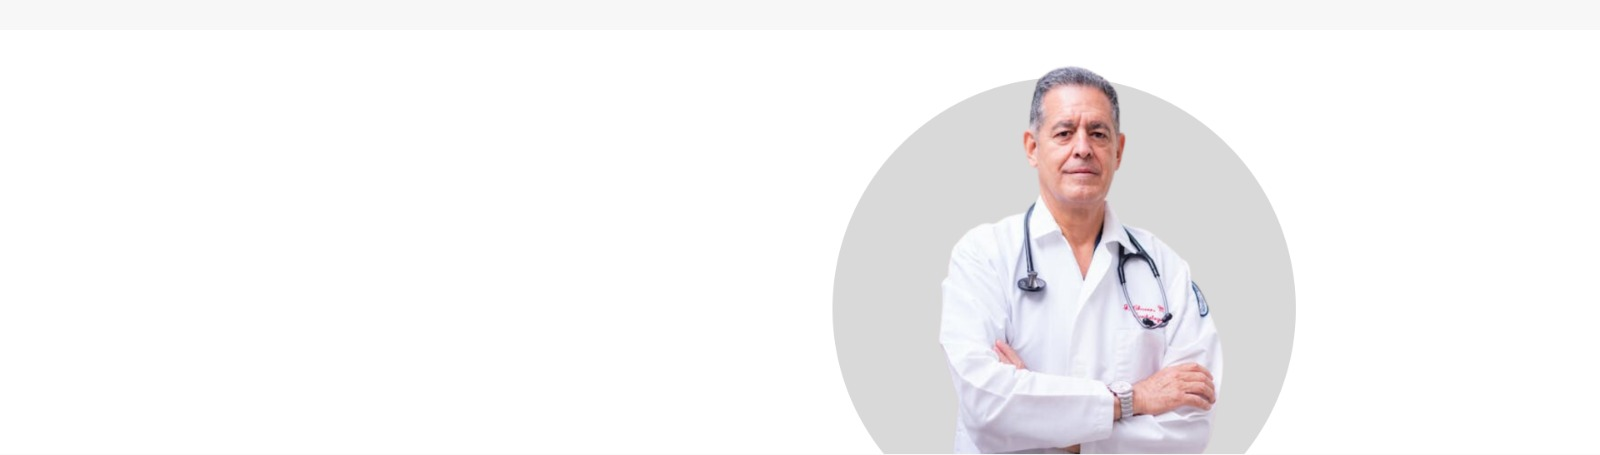
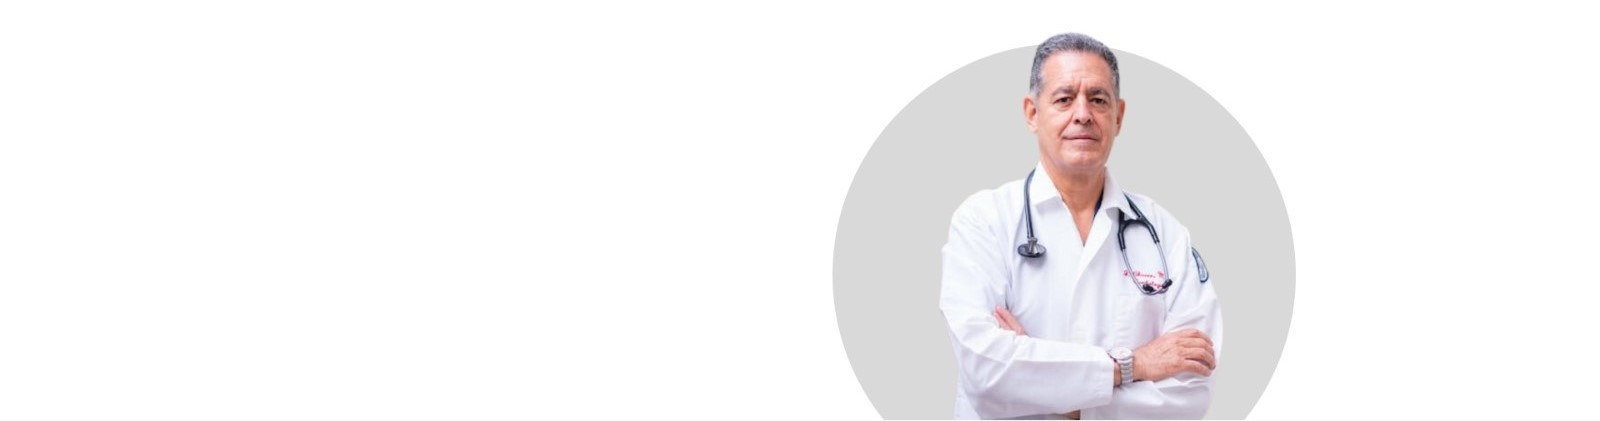
probando new path

Changed region(s): [[0.5312, 0.0618, 0.8125, 0.9264], [0.5, 0.4632, 0.5312, 0.4941]]

diff --git a/src/components/Nav/index.jsx b/src/components/Nav/index.jsx
@@ -1,9 +1,15 @@
+
 import React from 'react'
 import '../Nav/index.css'
 import Logo from "../Logo"
+import { Link } from 'react-router-dom';
 import { useNavigate } from "react-router-dom";
 const Nav = () => {
-  
+    const navigate = useNavigate();
+    const handleButtonClick = () => {
+        // Navegar a una ruta específica cuando se hace clic en el botón
+        navigate('/Login');
+      };
     return (
         <>
             <nav className='navBar'>
@@ -16,10 +22,11 @@ const Nav = () => {
                 </div>
 
                 <div className="links">
-                    <ul><li>
+                    <ul><li onClick={handleButtonClick}>
                    
-
-                        <a href='/Login'>Inicia Sesión </a></li>
+                    <a href="">Inicia Sesion</a>
+                   
+                        </li>
                         </ul>
 
 

diff --git a/src/App.jsx b/src/App.jsx
@@ -13,15 +13,17 @@ const App = () => {
   const [showFooter, setShowFooter] = useState(true)
   return (
     <>
-        {
+        {/* {
             showNav && <Nav />
-        }
+        } */}
 
         <BrowserRouter>
             <Routes>
-                <Route path="/" element={<HomePage />} />
+                
+                <Route path="/Nav" element={<Nav />} />
+                <Route path="/" element={<HomePage setShowNav={setShowNav} setShowFooter={setShowFooter}  />} />
                 <Route path="/Login" element={<Login setShowNav={setShowNav} setShowFooter={setShowFooter}  />} />
-                <Route path="/Citas" element={<Citas />} />
+                <Route path="/Citas" element={<Citas setShowNav={setShowNav} setShowFooter={setShowFooter}  />} />
             </Routes>
         </BrowserRouter>
 

diff --git a/src/pages/HomePage/HomePage.jsx b/src/pages/HomePage/HomePage.jsx
@@ -1,20 +1,21 @@
 import React, { useContext } from 'react'
-
 import '../HomePage/index.css'
-
+import Nav from '../../components/Nav/index'
 const HomePage = () => {
     
-    return (
+    return ( 
     <div class="container">
+        <Nav/>
+
         <div class="row">
             <div id="section1" class="column">
 
-            <img src='../../../img/homepage1.jpg'alt="" />
+            <img src='../../../img/homepage1.png'alt="" />
             </div>
         </div>
         <div class="row">
             <div id="section2" class="column">
-
+            
             <img src='../../../img/homepage2.jpg' alt="" />
             </div>
         </div>

diff --git a/src/pages/Login/Login.jsx b/src/pages/Login/Login.jsx
@@ -93,7 +93,7 @@ const Login = ({ setShowNav, setShowFooter }) => {
               }}
               onClick={(e) => {
                 e.preventDefault();
-                
+               
               }}
             >
               <Google width={2} color={"#fff"} />

diff --git a/src/pages/Citas/Citas.jsx b/src/pages/Citas/Citas.jsx
@@ -17,6 +17,7 @@ const Citas = () => {
         backgroundColor: "#ffff",
       }}
     >
+     
       <div
         style={{
           backgroundImage: "url('../../../public/img/citas1.jpg')",

diff --git a/src/components/Nav/index.css b/src/components/Nav/index.css
@@ -2,6 +2,7 @@
     margin: 0;
     padding: 0;
     font-family: 'Poppins', sans-serif;
+   
 }
 
 .titleDesc {

diff --git a/src/pages/HomePage/index.css b/src/pages/HomePage/index.css
@@ -34,6 +34,4 @@ img{
 
 
 
-#section2 {
-padding-bottom: 2pc;
-}
+
